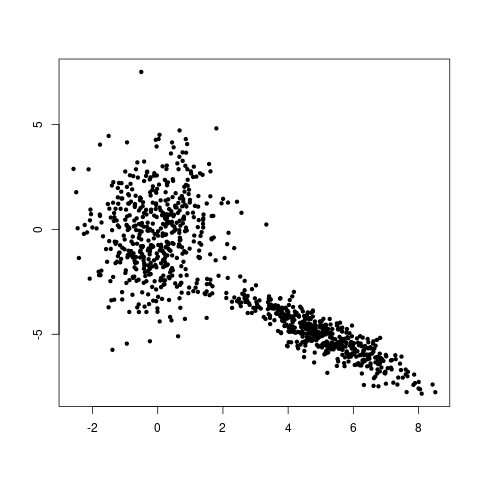
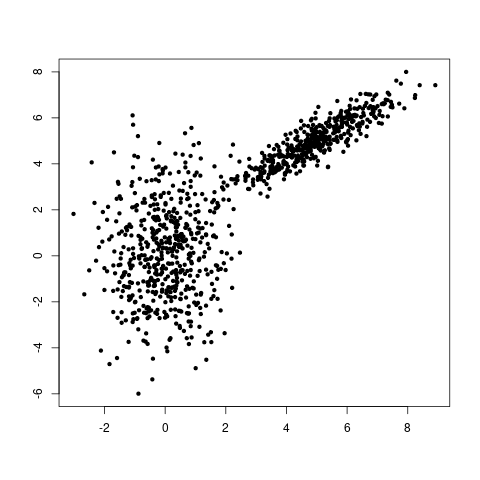
"bsds 3d"

diff --git a/BSDSprob2_2026/page1.html b/BSDSprob2_2026/page1.html
@@ -159,7 +159,7 @@ function myFunction() {
 <td align="right">
 <i>Last
 updated on:
-Mon Jul 13 22:03:40 IST 2026</i>
+Tue Jul 14 15:31:16 IST 2026</i>
 </td>
 </tr>
 </table>
@@ -167,37 +167,37 @@ Mon Jul 13 22:03:40 IST 2026</i>
 <ul>
 <li>1. <a href="#N10012">Warm up</a>
 </li>
-<li>&nbsp;&nbsp;&nbsp;1.1. <a href="#N10029">Random vectors</a>
+<li>&nbsp;&nbsp;&nbsp;1.1. <a href="#N10032">Random vectors</a>
 </li>
-<li>&nbsp;&nbsp;&nbsp;1.2. <a href="#N10089">Multivariate function</a>
+<li>&nbsp;&nbsp;&nbsp;1.2. <a href="#N10095">Multivariate function</a>
 </li>
-<li>&nbsp;&nbsp;&nbsp;1.3. <a href="#N100CD">Jacobian</a>
+<li>&nbsp;&nbsp;&nbsp;1.3. <a href="#N100D9">Jacobian</a>
 </li>
-<li>&nbsp;&nbsp;&nbsp;1.4. <a href="#N100FA">Problem set</a>
+<li>&nbsp;&nbsp;&nbsp;1.4. <a href="#N10106">Problem set</a>
 </li>
-<li>2. <a href="#N100FD">Review of the univariate case</a>
+<li>2. <a href="#N10109">Review of the univariate case</a>
 </li>
-<li>&nbsp;&nbsp;&nbsp;2.1. <a href="#N10115">Problem set</a>
+<li>&nbsp;&nbsp;&nbsp;2.1. <a href="#N10121">Problem set</a>
 </li>
-<li>3. <a href="#N10118">Multivariate Jacobian formula</a>
+<li>3. <a href="#N10124">Multivariate Jacobian formula</a>
 </li>
-<li>&nbsp;&nbsp;&nbsp;3.1. <a href="#N101C8">Problem set</a>
+<li>&nbsp;&nbsp;&nbsp;3.1. <a href="#N101D4">Problem set</a>
 </li>
-<li>4. <a href="#N101FE">Special case: (Affine) linear tranforms</a>
+<li>4. <a href="#N1020A">Special case: (Affine) linear tranforms</a>
 </li>
-<li>&nbsp;&nbsp;&nbsp;4.1. <a href="#N10227">Problem set</a>
+<li>&nbsp;&nbsp;&nbsp;4.1. <a href="#N10233">Problem set</a>
 </li>
-<li>5. <a href="#N1022A">Transformations from ${\mathbb R}^n$  to ${\mathbb R}^m$</a>
+<li>5. <a href="#N10236">Transformations from ${\mathbb R}^n$  to ${\mathbb R}^m$</a>
 </li>
-<li>&nbsp;&nbsp;&nbsp;5.1. <a href="#N10287">Problem set</a>
+<li>&nbsp;&nbsp;&nbsp;5.1. <a href="#N10293">Problem set</a>
 </li>
-<li>6. <a href="#N1028A">Geometry in the univariate case</a>
+<li>6. <a href="#N10296">Geometry in the univariate case</a>
 </li>
-<li>&nbsp;&nbsp;&nbsp;6.1. <a href="#N102D6">Problem set</a>
+<li>&nbsp;&nbsp;&nbsp;6.1. <a href="#N102E2">Problem set</a>
 </li>
-<li>7. <a href="#N1030A">Geometry in the multivariate case</a>
+<li>7. <a href="#N10316">Geometry in the multivariate case</a>
 </li>
-<li>&nbsp;&nbsp;&nbsp;7.1. <a href="#N103E1">Problem set </a>
+<li>&nbsp;&nbsp;&nbsp;7.1. <a href="#N103ED">Problem set </a>
 </li>
 </ul>
 <hr/>
@@ -211,15 +211,18 @@ $\newcommand{\v}[1]{{\mathbf #1}}$
 <h1>
 <a name="N10012"><span class="header">1</span>. Warm up</a>
 </h1>
-We often work with functions of random variables. New random variables are created out of existing ones via functions. 
-So a natural requirement is to be able to work out the distributions of the new random variables in terms those of the existing
- ones. In your Probability I class you have already learned about univariate transforms (<i>i.e.</i>,
- from ${\mathbb R}$  to ${\mathbb R}$). Here we shall generalise it to multivariate transforms (<i>i.e.</i>,
- from ${\mathbb R}^n$  to ${\mathbb R}^n$). Let us start reviewing some basic concepts.
+We often work with functions of random variables. Old random variables are transformed into new random variables using
+functions. 
+So a natural requirement is to be able to work out the distributions of the new random variables
+ in terms of those of the old
+ ones. In Probability I, you have already learned about univariate transforms (<i>i.e.</i>,
+ from ${\mathbb R}$  to ${\mathbb R}$). Here we shall generalise them to multivariate transforms (<i>i.e.</i>,
+ from ${\mathbb R}^n$  to ${\mathbb R}^n$  and later from ${\mathbb R}^n$  to ${\mathbb R}^m$  where $m &lt; n$). Let us start
+by reviewing some basic concepts.
 <p></p>
 
 <h2>
-<a name="N10029"><span class="header">1.1</span>.
+<a name="N10032"><span class="header">1.1</span>.
 Random vectors</a>
 </h2>
 An $n$-dimensional random vector is just $n$  random variables packed together as a vector. All the random variables
@@ -243,12 +246,11 @@ Then $(X,Y)$  is a random vector.
 <p></p>
 
 <p>
-<b>EXAMPLE 2:</b>&nbsp;Roll a fair die and a fair coin independently.  Let the outcome be denoted by
+<b>EXAMPLE 2:</b>&nbsp;Roll a fair die and a fair coin independently together.  Let the outcome be denoted by
  $\omega\equiv(\omega_1,\omega_2),$  where $\omega_1$  is the outcome of the die, and
  $\omega_2$  is that of the coin. 
 <p></p>
- Define the random variables
- $X$, $Y$  and $Z$  as 
+ Define the random variables  $X$, $Y$  and $Z$  as 
 <ul>
 
 <li>$X(\omega) = \omega_1$</li>
@@ -258,14 +260,15 @@ Then $(X,Y)$  is a random vector.
 <li>$Z(\omega) = \left\{\begin{array}{ll}\omega_1&\text{if }\omega_2=Head\\ \omega_1+3&\text{if }\omega_2=Tail\\\end{array}\right.$</li>
 
 </ul>
-Then $(X,Y,Z,XY)$  is a random vector. 
+Then $(X,Y,Z,XY)$  is a random vector. This example shows how "a coin toss and a die roll" is considered a <i>single</i> 
+ random experiment. 
  ■
 </p>
 
 <p></p>
 
 <h2>
-<a name="N10089"><span class="header">1.2</span>.
+<a name="N10095"><span class="header">1.2</span>.
 Multivariate function</a>
 </h2>
 When we say $\phi$  is a function from ${\mathbb R}^2$  to ${\mathbb R}^3,$  we think of $\phi$  as a machine with $2 $ inputs
@@ -304,7 +307,7 @@ Note that, as in the  case of the first and third components, not all the input 
 <p></p>
 
 <h2>
-<a name="N100CD"><span class="header">1.3</span>.
+<a name="N100D9"><span class="header">1.3</span>.
 Jacobian</a>
 </h2>
 Let $\phi:{\mathbb R}^n\rightarrow{\mathbb R}^m$  be a function with $i$-th component function denoted by
@@ -321,12 +324,12 @@ $$\left[\begin{array}{ccccccccccc}1 &amp; 0\\1 &amp; 1\\2x_1 &amp; 0
 </p>
  
 <h2>
-<a name="N100FA"><span class="header">1.4</span>.
+<a name="N10106"><span class="header">1.4</span>.
 Problem set</a>
 </h2>
 
 <h1>
-<a name="N100FD"><span class="header">2</span>. Review of the univariate case</a>
+<a name="N10109"><span class="header">2</span>. Review of the univariate case</a>
 </h1>
 We already know this (at least we <i>should</i> !):
 <center>
@@ -339,12 +342,12 @@ Here $\phi$  is assumed to be strictly monotone and differentiable. Actually, we
 <p></p>
 
 <h2>
-<a name="N10115"><span class="header">2.1</span>.
+<a name="N10121"><span class="header">2.1</span>.
 Problem set</a>
 </h2>
 
 <h1>
-<a name="N10118"><span class="header">3</span>. Multivariate Jacobian formula</a>
+<a name="N10124"><span class="header">3</span>. Multivariate Jacobian formula</a>
 </h1>
 In higher dimensions, we want to have $\phi:{\mathbb R}^n\rightarrow{\mathbb R}^n.$  Now, if $n\geq 2,$  then 
 we do not have the concept of
@@ -426,7 +429,7 @@ Sketching these restrictions we get this region:
 </p>
 
 <h2>
-<a name="N101C8"><span class="header">3.1</span>.
+<a name="N101D4"><span class="header">3.1</span>.
 Problem set</a>
 </h2>
 
@@ -458,7 +461,7 @@ non-zero constants  $a,b,c,d$  such that $U=aX+bY$  and $V=cX+dY$  are independe
 </p>
 
 <h1>
-<a name="N101FE"><span class="header">4</span>. Special case: (Affine) linear tranforms</a>
+<a name="N1020A"><span class="header">4</span>. Special case: (Affine) linear tranforms</a>
 </h1>
 If our transformation is $\phi:{\mathbb R}^n\rightarrow{\mathbb R}^n$  is of the form $\phi(\v x) = A\v x + \v b,$  where $A_{n\times n}$ 
  is a fixed matrix, and $\v b$  is a fixed vector, then $\phi$  is a a bijection if any only if $A$  is nonsingular.
@@ -467,12 +470,12 @@ If our transformation is $\phi:{\mathbb R}^n\rightarrow{\mathbb R}^n$  is of the
 <p></p>
 
 <h2>
-<a name="N10227"><span class="header">4.1</span>.
+<a name="N10233"><span class="header">4.1</span>.
 Problem set</a>
 </h2>
 
 <h1>
-<a name="N1022A"><span class="header">5</span>. Transformations from ${\mathbb R}^n$  to ${\mathbb R}^m$</a>
+<a name="N10236"><span class="header">5</span>. Transformations from ${\mathbb R}^n$  to ${\mathbb R}^m$</a>
 </h1>
 So far we have been talking only about trasnformas from ${\mathbb R}^n$  to ${\mathbb R}^n.$  What if we have a transform $\phi:{\mathbb R}^n\rightarrow{\mathbb R}^m,$ 
  where $m\neq n?$  
@@ -501,12 +504,12 @@ bijective function from ${\mathbb R}^2$  to ${\mathbb R}^2.$  So we can let $V =
 <p></p>
 
 <h2>
-<a name="N10287"><span class="header">5.1</span>.
+<a name="N10293"><span class="header">5.1</span>.
 Problem set</a>
 </h2>
 
 <h1>
-<a name="N1028A"><span class="header">6</span>. Geometry in the univariate case</a>
+<a name="N10296"><span class="header">6</span>. Geometry in the univariate case</a>
 </h1>
 
 <p></p>
@@ -567,7 +570,7 @@ to  compensate by growing taller,
 <p></p>
 
 <h2>
-<a name="N102D6"><span class="header">6.1</span>.
+<a name="N102E2"><span class="header">6.1</span>.
 Problem set</a>
 </h2>
 
@@ -593,7 +596,7 @@ class="ans" id="lab1">We were assuming that density of $Y$  at any given point w
 </p>
 
 <h1>
-<a name="N1030A"><span class="header">7</span>. Geometry in the multivariate case</a>
+<a name="N10316"><span class="header">7</span>. Geometry in the multivariate case</a>
 </h1>
 First let us understand how a function from ${\mathbb R}^2$  to ${\mathbb R}^2$  may be visualised graphically. 
 <center>
@@ -730,7 +733,7 @@ $$x_2\cos (x_1x_2)\times(-2x_2)- x_1\cos (x_1x_2)\times 1  = -(2x_2^2+x_1)\cos (
 </blockquote>
 
 <h2>
-<a name="N103E1"><span class="header">7.1</span>.
+<a name="N103ED"><span class="header">7.1</span>.
 Problem set </a>
 </h2>
 

diff --git a/BSDSprob2_2026/elem.html b/BSDSprob2_2026/elem.html
@@ -159,7 +159,7 @@ function myFunction() {
 <td align="right">
 <i>Last
 updated on:
-Tue Jul 14 14:58:48 IST 2026</i>
+Tue Jul 14 15:27:42 IST 2026</i>
 </td>
 </tr>
 </table>
@@ -185,7 +185,7 @@ Tue Jul 14 14:58:48 IST 2026</i>
 </li>
 <li>&nbsp;&nbsp;&nbsp;3.2. <a href="#N10130">2D case</a>
 </li>
-<li>&nbsp;&nbsp;&nbsp;3.3. <a href="#N1016B">Problem set</a>
+<li>&nbsp;&nbsp;&nbsp;3.3. <a href="#N10170">Problem set</a>
 </li>
 </ul>
 <hr/>
@@ -583,23 +583,40 @@ of the spray may be different at different parts of
 the $xy$-plane. This varying level of concentration is
 captured by the (joint) density of $(X,Y).$ 
 <p></p>
-For instance when we generate data from the density below:
+
+<p>
+<b>EXAMPLE 1:</b>&nbsp;
 <center>
 <table style="" border="0">
 <tr>
+<th colspan="" rowspan="">A bivariate density</th><th colspan="" rowspan="">Scatterplot from it</th>
+</tr>
+<tr>
 <th colspan="" rowspan="">
-<model-viewer camera-controls="true" auto-rotate="true" style="width:100%;height:500px" alt="A bivariate density" src="image/gaumix.glb"></model-viewer>
+
+<model-viewer camera-controls="true" auto-rotate="true" style="width:500px;height:500px;" alt="A bivariate density" src="image/gaumix.glb"></model-viewer>
 </th><th colspan="" rowspan="">
-<img width="" align="" src="image/gaumixscat.png">
+
+<center>
+<table width="100%">
+<tr>
+<th><img width="" src="image/gaumixscat.png"></th>
+</tr>
+<tr>
+<th></th>
+</tr>
+</table>
+</center>
 </th>
 </tr>
 </table>
 </center>
 Observe how the random points crowd more densely near the peaks.
-<p></p>
+ ■
+</p>
 
 <h2>
-<a name="N1016B"><span class="header">3.3</span>.
+<a name="N10170"><span class="header">3.3</span>.
 Problem set</a>
 </h2>
 

diff --git a/BSDSprob2_2026/news.html b/BSDSprob2_2026/news.html
@@ -2,7 +2,7 @@
 <head>
 <title>Notice</title>
 </head>
-<body>
+<body bgcolor="pink">
 <dl>
 <dt>Mon Jul 20 2026
 <dd>Classes start.

diff --git a/BSDSprob2_2026/page1.rb b/BSDSprob2_2026/page1.rb
@@ -5,11 +5,14 @@
 <TITLE>Transformation of random vectors</TITLE>
 
 <HEAD1>Warm up</HEAD1>
-We often work with functions of random variables. New random variables are created out of existing ones via functions. 
-So a natural requirement is to be able to work out the distributions of the new random variables in terms those of the existing
- ones. In your Probability I class you have already learned about univariate transforms (i.e.,
- from <M>\rr</M>  to <M>\rr</M>). Here we shall generalise it to multivariate transforms (i.e.,
- from <M>\rr^n</M>  to <M>\rr^n</M>). Let us start reviewing some basic concepts.
+We often work with functions of random variables. Old random variables are transformed into new random variables using
+functions. 
+So a natural requirement is to be able to work out the distributions of the new random variables
+ in terms of those of the old
+ ones. In Probability I, you have already learned about univariate transforms (i.e.,
+ from <M>\rr</M>  to <M>\rr</M>). Here we shall generalise them to multivariate transforms (i.e.,
+ from <M>\rr^n</M>  to <M>\rr^n</M>  and later from <M>\rr^n</M>  to <M>\rr^m</M>  where <M>m < n</M>). Let us start
+by reviewing some basic concepts.
 
 <HEAD2>Random vectors</HEAD2>
 An <M>n</M>-dimensional random vector is just <M>n</M>  random variables packed together as a vector. All the random variables
@@ -24,18 +27,18 @@ An <M>n</M>-dimensional random vector is just <M>n</M>  random variables packed 
 Then <M>(X,Y)</M>  is a random vector. 
 </EXM>
 
-<EXM>Roll a fair die and a fair coin independently.  Let the outcome be denoted by
+<EXM>Roll a fair die and a fair coin independently together.  Let the outcome be denoted by
  <M>\omega\equiv(\omega_1,\omega_2),</M>  where <M>\omega_1</M>  is the outcome of the die, and
  <M>\omega_2</M>  is that of the coin. 
  
- Define the random variables
- <M>X</M>, <M>Y</M>  and <M>Z</M>  as 
+ Define the random variables  <M>X</M>, <M>Y</M>  and <M>Z</M>  as 
 <UL>
 <LI><M>X(\omega) = \omega_1</M></LI>
 <LI><M>Y(\omega) = <CASES>1<IF>\omega_2=Head</IF> 0<IF>\omega_2=Tail</IF></CASES></M></LI>
 <LI><M>Z(\omega) = <CASES>\omega_1<IF>\omega_2=Head</IF> \omega_1+3<IF>\omega_2=Tail</IF></CASES></M></LI>
 </UL>
-Then <M>(X,Y,Z,XY)</M>  is a random vector. 
+Then <M>(X,Y,Z,XY)</M>  is a random vector. This example shows how "a coin toss and a die roll" is considered a <I>single</I> 
+ random experiment. 
 </EXM>
 
 <HEAD2>Multivariate function</HEAD2>

diff --git a/BSDSprob2_2026/elem.rb b/BSDSprob2_2026/elem.rb
@@ -249,12 +249,12 @@ of the spray may be different at different parts of
 the <M>xy</M>-plane. This varying level of concentration is
 captured by the (joint) density of <M>(X,Y).</M> 
 
-For instance when we generate data from the density below:
-<RAWTABLE><TR><TH><MV src="image/gaumix.glb" a="A bivariate density"></MV></TH><TH>
-<RAWIMG web="gaumixscat.png">A sample scatterplot from the above density</RAWIMG>
-</TH></TR></RAWTABLE>
+<EXM>
+<RAWTABLE><TR><TH>A bivariate density</TH><TH>Scatterplot from it</TH></TR><TR><TH>
+<MV  src="image/gaumix.glb" a="A bivariate density"></MV></TH><TH>
+<CIMG web="gaumixscat.png"></CIMG></TH></TR></RAWTABLE>
 Observe how the random points crowd more densely near the peaks.
-
+</EXM>
 <HEAD2>Problem set</HEAD2>
 
 <EXR>I have a random sample of size 1000 from the <M>Unif(0,1)</M>  distribution. If I square all